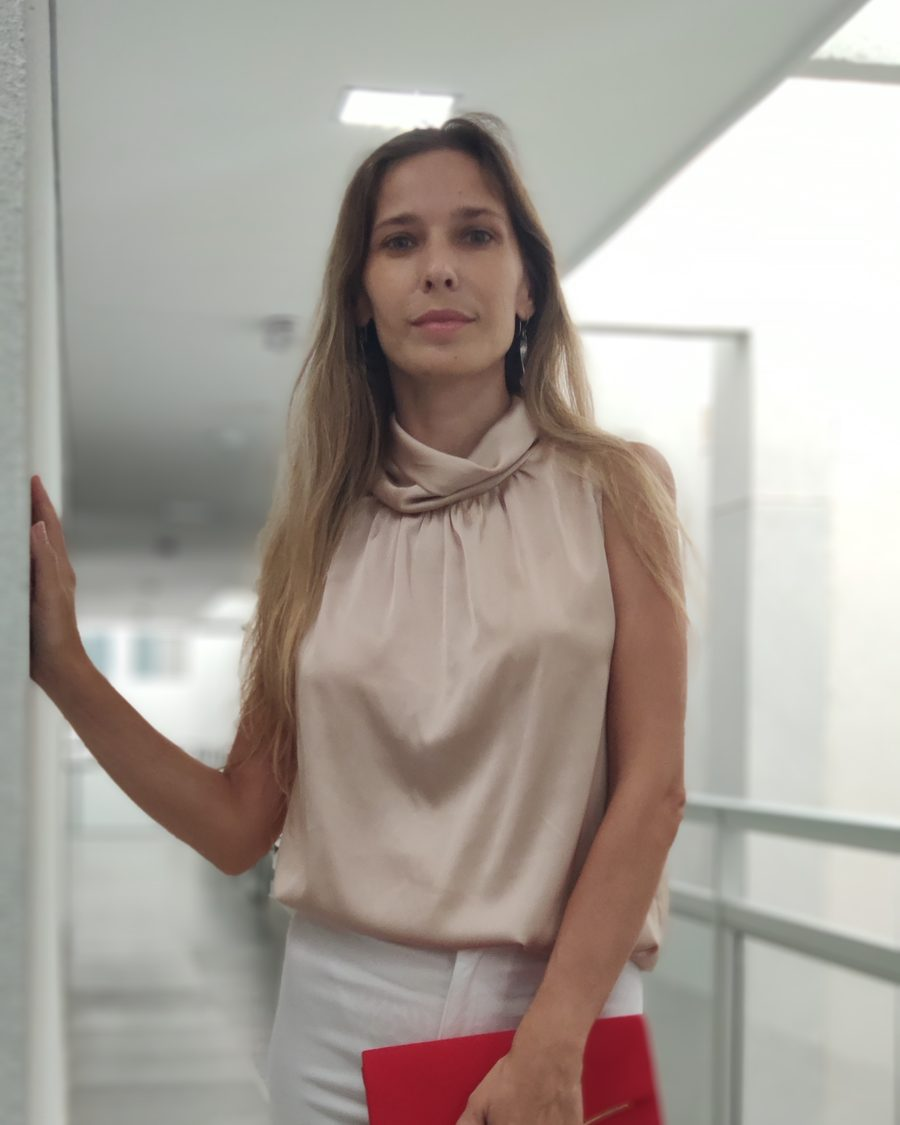
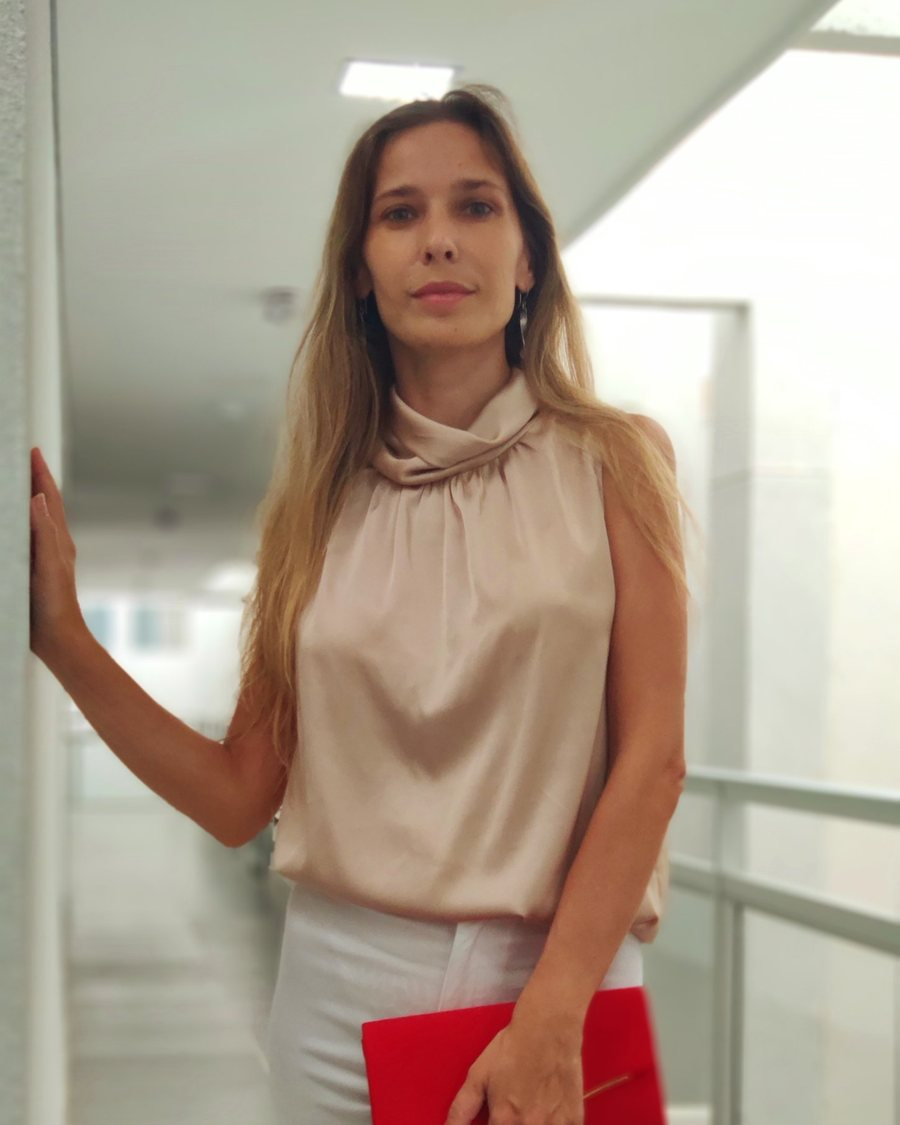
Add files via upload

diff --git a/es/index.html b/es/index.html
@@ -170,14 +170,13 @@ a:focus-visible,button:focus-visible{outline:2px solid #03054F;outline-offset:3p
 <div style="display: flex; flex-wrap: wrap; gap: 8px"><span style="font-size: 14px; color: #4A4C7E; background: #E6DED2; border-radius: 999px; padding: 5px 12px">Kindle</span><span style="font-size: 14px; color: #4A4C7E; background: #E6DED2; border-radius: 999px; padding: 5px 12px">Tapa blanda</span><span style="font-size: 14px; color: #4A4C7E; background: #E6DED2; border-radius: 999px; padding: 5px 12px">Español</span></div>
 <p style="margin: 0">Un libro sobre cómo entender mejor esta vida y conocerte a ti mismo sin sermones: con ejemplos de la vida real y un ejercicio práctico al final. En él encontrarás cosas en las que quizá nunca antes habías pensado.</p>
 <div style="display: flex; flex-direction: column; gap: 14px; align-items: flex-start">
-<div style="display: flex; flex-direction: column; gap: 6px; align-items: flex-start">
+<div style="display: flex; flex-direction: column; gap: 8px; align-items: flex-start">
 <div style="display: flex; flex-wrap: wrap; gap: 12px; align-items: center">
 <a href="https://www.amazon.com/dp/B0HSS6BB1H" target="_blank" rel="noopener" class="buy-btn" style="background: #B7E6D1; color: #03054F; text-decoration: none; padding: 14px 24px; border-radius: 14px; font-weight: 600; white-space: nowrap; text-align: center" data-umami-event="amazon-kindle" data-umami-event-lang="es">Kindle en Amazon — US$4.99</a>
 <a href="https://www.amazon.com/dp/B0HSXZ4829" target="_blank" rel="noopener" style="border: 1.5px solid #03054F; color: #03054F; text-decoration: none; padding: 12.5px 22px; border-radius: 14px; font-weight: 600; max-width: 100%; box-sizing: border-box; text-align: center" data-umami-event="amazon-paperback" data-umami-event-lang="es">Tapa blanda en Amazon — US$19.99</a>
 </div>
-<p style="margin: 0; font-size: 14px; line-height: 1.45; color: #4A4C7E">Precios en Amazon.com. Los precios en otras tiendas de Amazon pueden variar.</p>
+<p style="margin: 0; font-size: 14px; line-height: 1.6; color: #4A4C7E">Precios en Amazon.com; en otras tiendas de Amazon pueden variar. También disponible en: <a href="/#book" hreflang="ru" lang="ru" style="color: #03054F">Русский</a> · <a href="/en/#book" hreflang="en" lang="en" style="color: #03054F">English</a></p>
 </div>
-<p style="margin: 0; font-size: 14px; color: #4A4C7E">También disponible en: <a href="/#book" hreflang="ru" lang="ru" style="color: #03054F">Русский</a> · <a href="/en/#book" hreflang="en" lang="en" style="color: #03054F">English</a></p>
 </div>
 <div style="margin-top: 6px; font-size: 14px"><a href="/es/apoyar/" style="color: #5A3F70; text-decoration: none; border-bottom: 1px solid #C9B9DA; padding-bottom: 2px; font-weight: 600" data-umami-event="support" data-umami-event-place="book" data-umami-event-lang="es">♡ Apoyar a la autora — para la app, el audiolibro y otros proyectos de autora</a></div>
 <div style="display: flex; flex-wrap: wrap; gap: 10px 24px; font-size: 16px">

diff --git a/en/index.html b/en/index.html
@@ -170,14 +170,13 @@ a:focus-visible,button:focus-visible{outline:2px solid #03054F;outline-offset:3p
 <div style="display: flex; flex-wrap: wrap; gap: 8px"><span style="font-size: 14px; color: #4A4C7E; background: #E6DED2; border-radius: 999px; padding: 5px 12px">Kindle eBook</span><span style="font-size: 14px; color: #4A4C7E; background: #E6DED2; border-radius: 999px; padding: 5px 12px">Paperback</span><span style="font-size: 14px; color: #4A4C7E; background: #E6DED2; border-radius: 999px; padding: 5px 12px">English</span></div>
 <p style="margin: 0">A book about understanding this life better and making sense of yourself without lecturing: with examples from real life and a practical exercise at the end. In it you’ll find things you may never have thought about before.</p>
 <div style="display: flex; flex-direction: column; gap: 14px; align-items: flex-start">
-<div style="display: flex; flex-direction: column; gap: 6px; align-items: flex-start">
+<div style="display: flex; flex-direction: column; gap: 8px; align-items: flex-start">
 <div style="display: flex; flex-wrap: wrap; gap: 12px; align-items: center">
 <a href="https://www.amazon.com/dp/B0HSQSJ3WL" target="_blank" rel="noopener" class="buy-btn" style="background: #B7E6D1; color: #03054F; text-decoration: none; padding: 14px 24px; border-radius: 14px; font-weight: 600; white-space: nowrap; text-align: center" data-umami-event="amazon-kindle" data-umami-event-lang="en">Kindle eBook on Amazon — $4.99</a>
 <a href="https://www.amazon.com/dp/B0HSSVQ989" target="_blank" rel="noopener" style="border: 1.5px solid #03054F; color: #03054F; text-decoration: none; padding: 12.5px 22px; border-radius: 14px; font-weight: 600; max-width: 100%; box-sizing: border-box; text-align: center" data-umami-event="amazon-paperback" data-umami-event-lang="en">Paperback on Amazon — $19.99</a>
 </div>
-<p style="margin: 0; font-size: 14px; line-height: 1.45; color: #4A4C7E">Prices on Amazon.com. Prices in other Amazon stores may differ.</p>
+<p style="margin: 0; font-size: 14px; line-height: 1.6; color: #4A4C7E">Prices on Amazon.com; other Amazon stores may differ. Also available in: <a href="/#book" hreflang="ru" lang="ru" style="color: #03054F">Русский</a> · <a href="/es/#book" hreflang="es" lang="es" style="color: #03054F">Español</a></p>
 </div>
-<p style="margin: 0; font-size: 14px; color: #4A4C7E">Also available in: <a href="/#book" hreflang="ru" lang="ru" style="color: #03054F">Русский</a> · <a href="/es/#book" hreflang="es" lang="es" style="color: #03054F">Español</a></p>
 </div>
 <div style="margin-top: 6px; font-size: 14px"><a href="/en/support/" style="color: #5A3F70; text-decoration: none; border-bottom: 1px solid #C9B9DA; padding-bottom: 2px; font-weight: 600" data-umami-event="support" data-umami-event-place="book" data-umami-event-lang="en">♡ Support the author — for the app, the audiobook and other author projects</a></div>
 <div style="display: flex; flex-wrap: wrap; gap: 10px 24px; font-size: 16px">

diff --git a/index.html b/index.html
@@ -173,7 +173,7 @@ a:focus-visible,button:focus-visible{outline:2px solid #03054F;outline-offset:3p
 <a href="#buy" data-buy-ru class="buy-btn" style="background: #B7E6D1; color: #03054F; text-decoration: none; padding: 14px 24px; border-radius: 14px; font-weight: 600; white-space: nowrap; text-align: center" data-umami-event="buy" data-umami-event-lang="ru">Купить PDF + EPUB — 399 ₽</a>
 <p style="margin: 0; width: 0; min-width: 100%; font-size: 14px; line-height: 1.45; color: #4A4C7E">Нажимая «Купить», вы принимаете условия <a href="/oferta/" target="_blank" rel="noopener" style="color:#03054F;font-weight:500;text-decoration:underline;text-underline-offset:2px" data-umami-event="oferta-open">Публичной оферты</a></p>
 </div>
-<span style="border: 1.5px dashed #8A7FA3; color: #4A4C7E; padding: 13px 16px; border-radius: 14px; font-size: 14px; white-space: nowrap">Amazon · EN/ES · скоро</span>
+<p class="also-ln" style="margin: 0; align-self: flex-start; min-height: 52px; display: flex; flex-direction: column; justify-content: center; font-size: 14px; line-height: 1.45; color: #4A4C7E"><span>Также на английском и испанском (Amazon):</span><span><a href="/en/#book" hreflang="en" lang="en" style="color: #03054F">English</a> · <a href="/es/#book" hreflang="es" lang="es" style="color: #03054F">Español</a></span></p>
 </div>
 <div style="margin-top: 6px; font-size: 14px"><a href="/podderzhat/" style="color: #5A3F70; text-decoration: none; border-bottom: 1px solid #C9B9DA; padding-bottom: 2px; font-weight: 600" data-umami-event="support" data-umami-event-place="book" data-umami-event-lang="ru">♡ Поддержать автора — для развития приложения, аудиокниги и других авторских продуктов</a></div>
 <div style="display: flex; flex-wrap: wrap; gap: 10px 24px; font-size: 16px">
